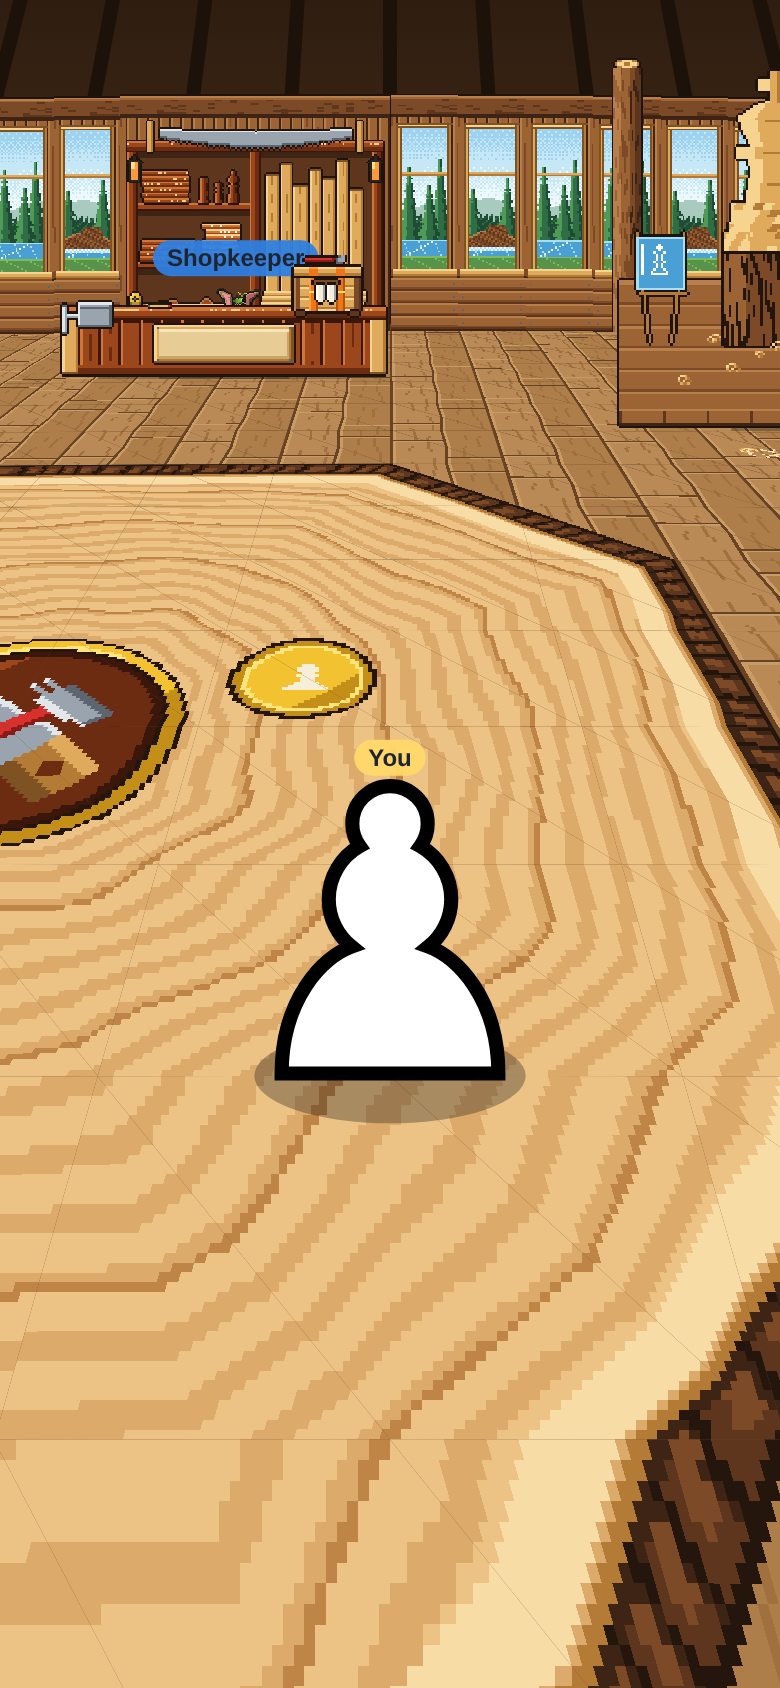
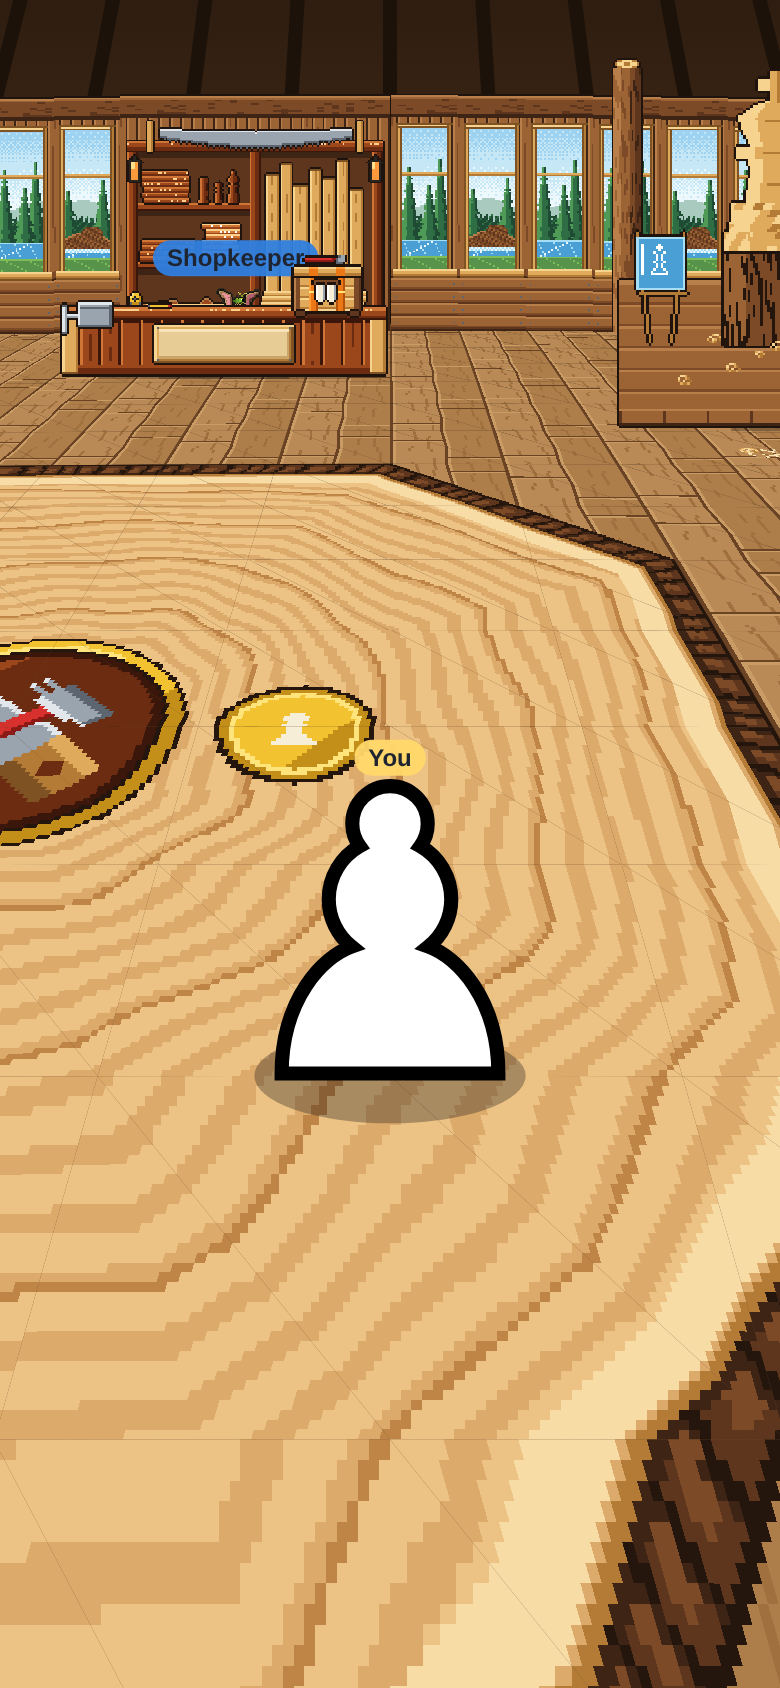
Timber's shop: line the start marks up with the emblem (half a square too high; one line, Eric OK)
Claude-Session: https://claude.ai/code/session_01JuCWRrhykEFvvmv5JKWgRX

Changed region(s): [[0.2769, 0.3697, 0.4923, 0.4621]]

diff --git a/scripts/boss-art/out/house-shop-timber/house-shop-timber.ts b/scripts/boss-art/out/house-shop-timber/house-shop-timber.ts
@@ -292,7 +292,7 @@ const PAWN_ICON = ["...III...", "..IIIII..", "..IIIII..", "...III...", "..IIIII.
 function markAt(gx: number, gy: number): Key {
   for (const [who, [mc, mr]] of Object.entries(MARKS)) {
     const mx = (mc + 0.5) * T;
-    const my = mr * T;
+    const my = (mr + 0.5) * T; // the row 10.5 is the line between rows 10 and 11 (fixed by hand, Eric OK, Nov 3)
     const X = gx + 0.5 - mx;
     const Y = gy + 0.5 - my;
     const d = Math.hypot(X, Y);

diff --git a/scripts/boss-art/out/shop-timber-nov3.md b/scripts/boss-art/out/shop-timber-nov3.md
@@ -56,3 +56,9 @@ every piece's size and where it stands). **Timber so far: $6.76** (the house $1.
 - The floor planks' end joints fall into a fairly regular brick pattern.
 - The showpiece is 4 x 2 squares, so the mallet's swing fits.
 - The stove and a third side-wall version were the artist's extras.
+
+## Fix (Nov 3): the start marks lined up with the emblem
+Eric saw the two marks sat higher than the emblem. The drawing placed each mark's middle at row `10.5 * 37` px, the
+middle of row 10, instead of `11 * 37`, the line between rows 10 and 11 where the emblem's middle is. That put the
+marks half a square (18.5 px) too high. Eric OK'd fixing it by hand: one line in `markAt`, nothing redrawn.
+`SHOP_TIMBER_MARKS` was already right. The fix: [circle-marks-fixed.png](house-shop-timber/circle-marks-fixed.png).
